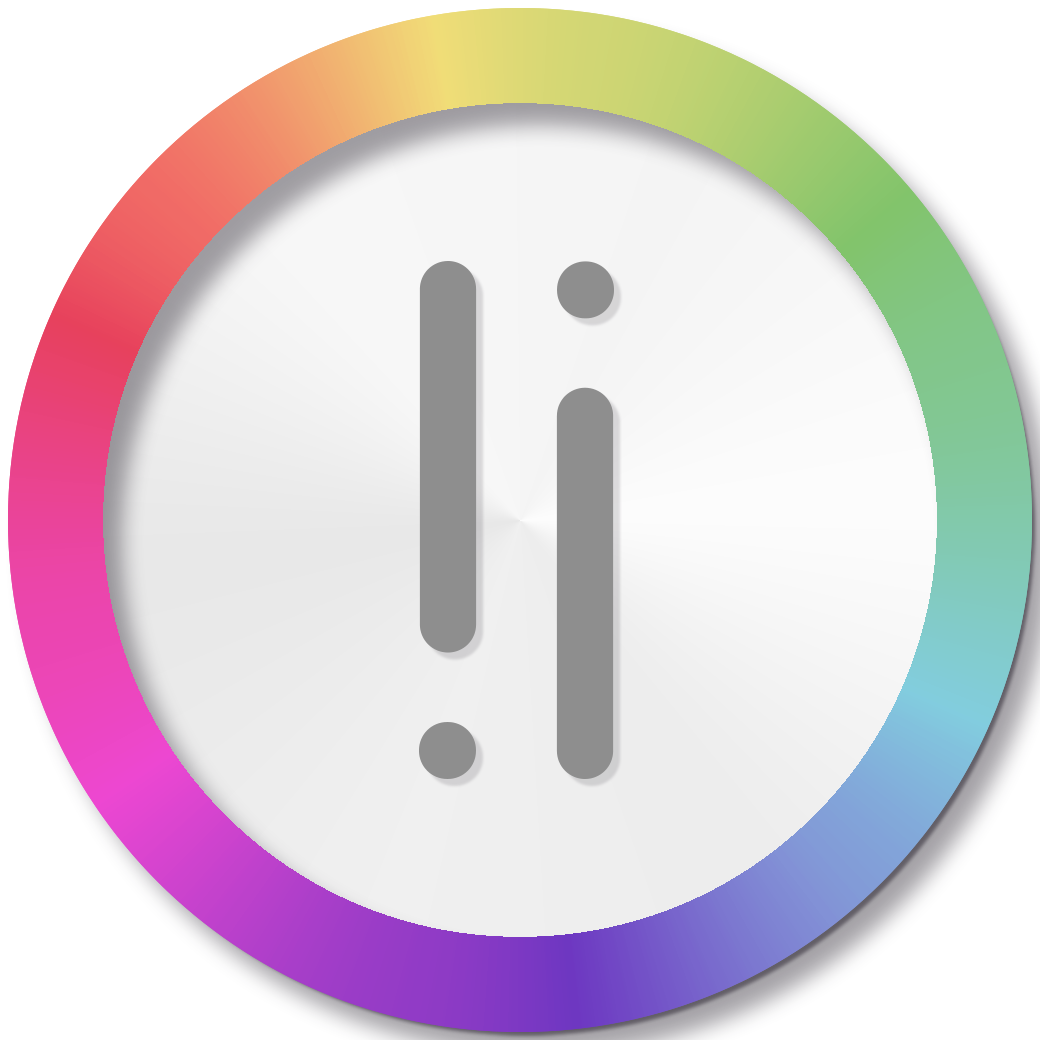
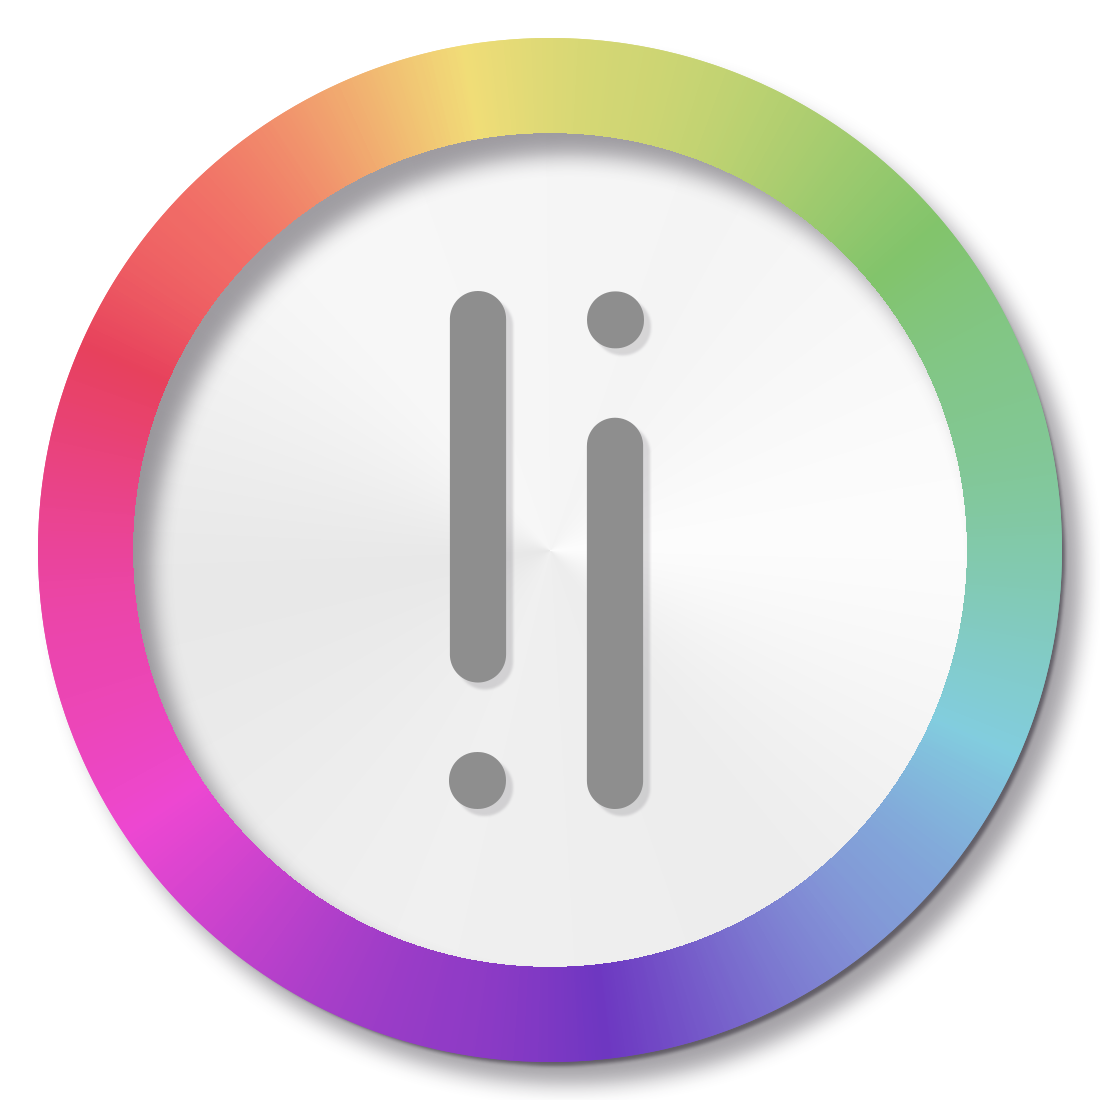
feat: add dark theme and implement word pair refresh functionality

diff --git a/test_matrix_app/lib/main.dart b/test_matrix_app/lib/main.dart
@@ -16,10 +16,9 @@ class MyApp extends StatelessWidget {
       create: (context) => MyAppState(),
       child: MaterialApp(
         title: 'Namer App',
-        theme: ThemeData(
-          useMaterial3: true,
-          colorScheme: ColorScheme.fromSeed(seedColor: Colors.deepOrange),
-        ),
+        themeMode: ThemeMode.system,
+        darkTheme: ThemeData.dark(), // This is the default Flutter dark theme
+        debugShowCheckedModeBanner: false,
         home: MyHomePage(),
       ),
     );
@@ -27,7 +26,14 @@ class MyApp extends StatelessWidget {
 }
 
 class MyAppState extends ChangeNotifier {
-  var current = WordPair.random();
+  var _current = WordPair.random();
+
+  WordPair get current => _current;
+
+  set current(WordPair value) {
+    _current = value;
+    notifyListeners();
+  }
 }
 
 class MyHomePage extends StatelessWidget {
@@ -36,12 +42,23 @@ class MyHomePage extends StatelessWidget {
     var appState = context.watch<MyAppState>();
 
     return Scaffold(
-      body: Column(
-        children: [
-          const TestWidget(),
-          const Text('A cute idea:'),
-          Text(appState.current.asLowerCase),
-        ],
+      body: Center(
+        child: Column(
+          mainAxisAlignment: MainAxisAlignment.center,
+          children: [
+            const TestWidget(),
+            const Text('A cute idea:', style: TextStyle(fontSize: 30)),
+            Text(appState.current.asLowerCase,
+                style:
+                    const TextStyle(fontSize: 40, fontWeight: FontWeight.bold)),
+          ],
+        ),
+      ),
+      floatingActionButton: FloatingActionButton(
+        onPressed: () {
+          appState.current = WordPair.random();
+        },
+        child: const Icon(Icons.refresh),
       ),
     );
   }

diff --git a/test_matrix_app/lib/test_widget.dart b/test_matrix_app/lib/test_widget.dart
@@ -9,19 +9,12 @@ class TestWidget extends StatelessWidget {
     return const Column(
       mainAxisAlignment: MainAxisAlignment.center,
       children: <Widget>[
-        // Image 'images/test_icon.png' with anti-aliasing (bicubic resampling)
         Image(
           image: AssetImage('assets/images/test_icon.png'),
-          filterQuality: FilterQuality.medium,
+          filterQuality: FilterQuality.high,
           isAntiAlias: true,
-          width: 100,
-          height: 100,
-        ),
-        Text(
-          'Flutter',
-          style: TextStyle(
-            fontSize: 30,
-          ),
+          width: 200,
+          height: 200,
         ),
       ],
     );
